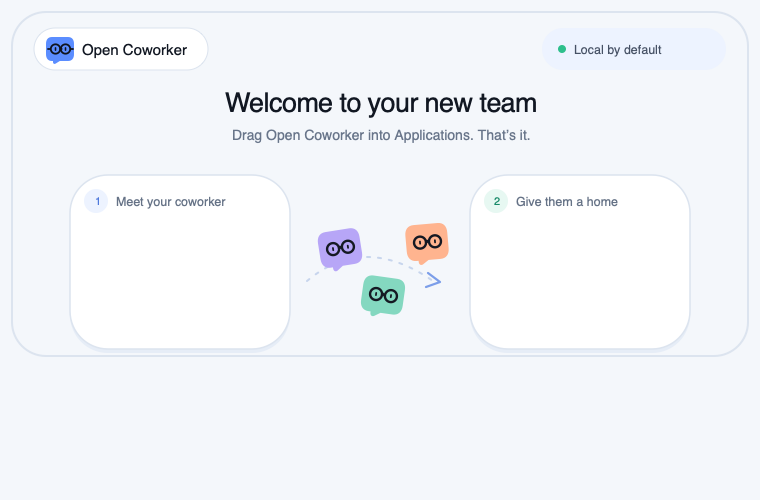
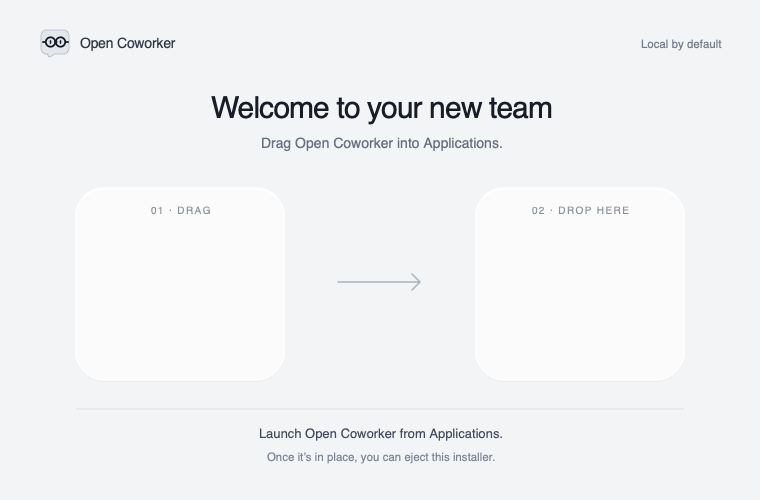
feat(coworker): refine native window materials and installation

diff --git a/evals/specs/open-coworker-local-first.e2e.test.ts b/evals/specs/open-coworker-local-first.e2e.test.ts
@@ -3,7 +3,7 @@ import http from "node:http";
 import os from "node:os";
 import path from "node:path";
 import { createServer, type IncomingMessage, type ServerResponse } from "node:http";
-import { clickButton, coworker, evalIn, fill, needs, resolveHost, test, waitFor, waitForText } from "@openwork/testkit";
+import { clickButton, coworker, evalIn, fill, needs, resolveHost, screenshot, test, waitFor, waitForText } from "@openwork/testkit";
 import { expect, onTestFinished } from "vitest";
 
 /**
@@ -448,6 +448,41 @@ test.skipIf(!enabled)(title, async ({ evidence }) => {
     true,
   );
 
+  // Native appearance must arrive through preload, while accessibility can make
+  // the chrome solid without replacing the mascot or either onboarding action.
+  await waitFor(app, `["none", "vibrancy", "mica"].includes(document.documentElement.dataset.windowMaterial)`, {
+    timeoutMs: 10_000, label: "native window appearance",
+  });
+  await screenshot(app);
+  await app.client.send("Emulation.setEmulatedMedia", { features: [
+    { name: "prefers-reduced-transparency", value: "reduce" },
+    { name: "prefers-reduced-motion", value: "reduce" },
+  ] });
+  try {
+    const accessibleAppearance = await evalIn(app, `(() => {
+      const shell = document.querySelector('.window-shell');
+      const launcher = document.querySelector('[data-testid="onboarding-launcher"]');
+      return {
+        surface: getComputedStyle(shell).backgroundColor,
+        transition: getComputedStyle(shell).transitionDuration,
+        launcherBlur: getComputedStyle(launcher).backdropFilter,
+        brandPreserved: Boolean(document.querySelector('svg[aria-label="Open Coworker"]')),
+        localEnabled: !document.querySelector('[data-testid="onboarding-local-choice"]').disabled,
+        cloudEnabled: !document.querySelector('[data-testid="onboarding-cloud-choice"]').disabled,
+      };
+    })()`);
+    expect(accessibleAppearance).toEqual({
+      surface: "rgb(9, 12, 18)", transition: "0s", launcherBlur: "none",
+      brandPreserved: true, localEnabled: true, cloudEnabled: true,
+    });
+  } finally {
+    await app.client.send("Emulation.setEmulatedMedia", { features: [] });
+  }
+  evidence.recordAssertionEvidence(
+    "Native window polish preserves first-run actions and respects reduced transparency and motion",
+    "The packaged app supplied native appearance through preload. With reduced transparency and motion enabled, the frame was fully opaque, the launcher had no blur, and transitions stopped; the original mascot and both onboarding actions remained available.", true,
+  );
+
   await clickButtonContaining(app, "Use this Mac");
 
   // --- Local mode: exactly what this Mac has, one Connect per row, the free model, and Add another.
@@ -703,6 +738,8 @@ test.skipIf(!enabled)(title, async ({ evidence }) => {
       emptyText: empty.innerText.split("\\n").map((line) => line.trim()).filter(Boolean),
       emptyButtons: empty.querySelectorAll("button").length,
       starterCards: [...document.querySelectorAll("main button")].filter((button) => /focus on today|think through a decision|catch me up/i.test(button.textContent ?? "")).length,
+      conversationSurface: getComputedStyle(document.querySelector('.glass-main')).backgroundColor,
+      conversationBlur: getComputedStyle(document.querySelector('.glass-main')).backdropFilter,
     };
   })()`, { timeoutMs: 60_000, label: "conversation-first workspace" });
   expect(conversationFirst).toMatchObject({
@@ -717,6 +754,8 @@ test.skipIf(!enabled)(title, async ({ evidence }) => {
     headerIconLabels: [],
     emptyButtons: 0,
     starterCards: 0,
+    conversationSurface: "rgb(9, 12, 18)",
+    conversationBlur: "none",
   });
   if (!isRecord(conversationFirst) || !Array.isArray(conversationFirst.emptyText)) throw new Error("Conversation-first facts were unavailable.");
   expect(conversationFirst.emptyText[0]).toBe("Scout");
@@ -736,6 +775,7 @@ test.skipIf(!enabled)(title, async ({ evidence }) => {
   })()`, { label: "Activity icon" });
   await waitFor(app, `document.querySelector('[data-testid="context-panel"]')?.dataset.collapsed === "false"`, { timeoutMs: 30_000, label: "details panel open" });
   await waitFor(app, `Boolean(document.querySelector('[data-testid="coworker-activity-summary"]'))`, { timeoutMs: 60_000, label: "Activity view" });
+  await screenshot(app);
 
   // The Activity view is useful as soon as it opens: what is happening now, then what the
   // coworker holds as three flat rows, and no technical vocabulary. The header owns the one

diff --git a/apps/coworker/src/index.css b/apps/coworker/src/index.css
@@ -13,6 +13,10 @@
   --color-rose: #f5759d;
 }
 
+:root {
+  color-scheme: dark;
+}
+
 html,
 body,
 #root {
@@ -44,7 +48,7 @@ body.is-resizing-panel * {
 .window-shell {
   position: relative;
   isolation: isolate;
-  background: rgb(8 11 17 / 0.92);
+  background: var(--window-surface, #090c12);
 }
 
 .window-shell::before {
@@ -57,27 +61,74 @@ body.is-resizing-panel * {
 }
 
 .glass-rail {
-  background: rgb(7 10 15 / 0.7);
-  -webkit-backdrop-filter: blur(38px) saturate(145%);
-  backdrop-filter: blur(38px) saturate(145%);
+  background: var(--rail-surface, #090c12);
 }
 
 .glass-main {
-  background: rgb(9 12 18 / 0.69);
-  -webkit-backdrop-filter: blur(28px) saturate(130%);
-  backdrop-filter: blur(28px) saturate(130%);
+  background: var(--color-ink);
 }
 
 .glass-context {
-  background: rgb(12 16 24 / 0.76);
-  -webkit-backdrop-filter: blur(34px) saturate(140%);
-  backdrop-filter: blur(34px) saturate(140%);
+  background: #0c1018;
 }
 
 .glass-header {
   background: rgb(255 255 255 / 0.018);
-  -webkit-backdrop-filter: blur(26px) saturate(135%);
-  backdrop-filter: blur(26px) saturate(135%);
+  box-shadow: inset 0 1px rgb(255 255 255 / 0.025);
+}
+
+/* The OS blurs the desktop once. Keep scrolling conversation layers off the
+   backdrop compositor and expose the material only through the surrounding chrome. */
+:root:is([data-window-material="vibrancy"], [data-window-material="mica"]) {
+  --window-surface: rgb(8 11 17 / 0.64);
+  --rail-surface: rgb(7 10 15 / 0.28);
+}
+
+:root[data-window-focused="false"] {
+  --window-surface: rgb(8 11 17 / 0.88);
+  --rail-surface: rgb(7 10 15 / 0.5);
+}
+
+.window-shell,
+.glass-rail,
+.glass-header {
+  transition: background-color 160ms ease-out, box-shadow 160ms ease-out;
+}
+
+/* Missing native support and accessibility preferences use the same solid palette. */
+:root[data-window-material="none"] {
+  --window-surface: #090c12;
+  --rail-surface: #090c12;
+}
+
+:root[data-window-material="none"] :is(.creation-card, .onboarding-launcher) {
+  background: var(--color-panel);
+  -webkit-backdrop-filter: none;
+  backdrop-filter: none;
+}
+
+@media (prefers-reduced-transparency: reduce), (prefers-contrast: more), (forced-colors: active) {
+  :root {
+    --window-surface: #090c12 !important;
+    --rail-surface: #090c12 !important;
+  }
+
+  .creation-card,
+  .onboarding-launcher {
+    background: var(--color-panel);
+    -webkit-backdrop-filter: none;
+    backdrop-filter: none;
+  }
+}
+
+@media (prefers-reduced-motion: reduce) {
+  .window-shell,
+  .window-shell *,
+  .window-shell *::before,
+  .window-shell *::after {
+    transition-duration: 0s !important;
+    scroll-behavior: auto !important;
+  }
 }
 
 .creation-card {
